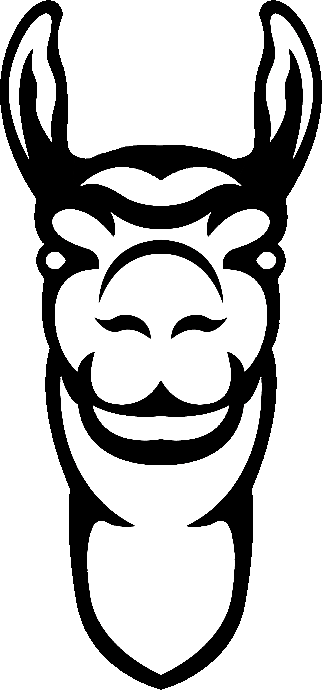
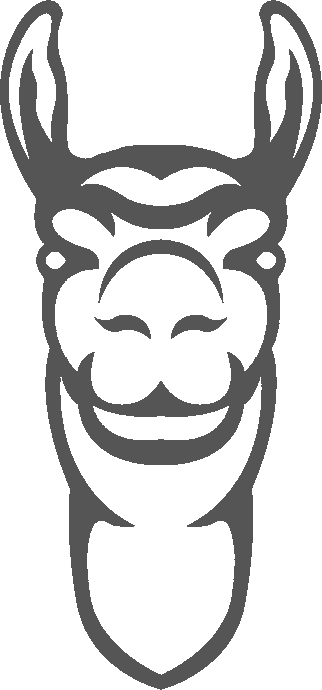
"Side Bar"

Changed region(s): [[0.0, 0.0, 1.0, 1.0], [0.528, 0.4565, 0.7143, 0.487], [0.3106, 0.4565, 0.4658, 0.487]]

diff --git a/src/components/SideBar/SideBar.jsx b/src/components/SideBar/SideBar.jsx
@@ -1,0 +1,98 @@
+import './SideBar.css';
+
+import AttachMoneyIcon from '@mui/icons-material/AttachMoney';
+import BarChartIcon from '@mui/icons-material/BarChart';
+import ChatBubbleOutlineIcon from '@mui/icons-material/ChatBubbleOutline';
+import DynamicFeedIcon from '@mui/icons-material/DynamicFeed';
+import LineStyleIcon from '@mui/icons-material/LineStyle';
+import MailOutlineIcon from '@mui/icons-material/MailOutline';
+import PersonOutlineIcon from '@mui/icons-material/PersonOutline';
+import ReportIcon from '@mui/icons-material/Report';
+import StorefrontIcon from '@mui/icons-material/Storefront';
+// import HomeIcon from '@mui/icons-material/Home';
+import TimelineIcon from '@mui/icons-material/Timeline';
+import TrendingUpIcon from '@mui/icons-material/TrendingUp';
+import WorkOutlineIcon from '@mui/icons-material/WorkOutline';
+
+const SideBar = () => {
+  return (
+    <div className='sideBar'>
+      <div className='sideBarWrapper'>
+        <div className='sideBarMenu'>
+          <h3 className='sideBarTitle'>Dashboard</h3>
+          <ul className='sideBarList'>
+            <li className='sideBarListItem active'>
+              <LineStyleIcon className='sideBarIcon' />
+              Home
+            </li>
+            <li className='sideBarListItem'>
+              <TimelineIcon className='sideBarIcon' />
+              Analytics
+            </li>
+            <li className='sideBarListItem'>
+              <TrendingUpIcon className='sideBarIcon' />
+              Sales
+            </li>
+          </ul>
+        </div>
+        <div className='sideBarMenu'>
+          <h3 className='sideBarTitle'>Quick Menu</h3>
+          <ul className='sideBarList'>
+            <li className='sideBarListItem '>
+              <PersonOutlineIcon className='sideBarIcon' />
+              Users
+            </li>
+            <li className='sideBarListItem'>
+              <StorefrontIcon className='sideBarIcon' />
+              Products
+            </li>
+            <li className='sideBarListItem'>
+              <AttachMoneyIcon className='sideBarIcon' />
+              Transactions
+            </li>
+            <li className='sideBarListItem'>
+              <BarChartIcon className='sideBarIcon' />
+              Reports
+            </li>
+          </ul>
+        </div>
+        <div className='sideBarMenu'>
+          <h3 className='sideBarTitle'>Notifications</h3>
+          <ul className='sideBarList'>
+            <li className='sideBarListItem '>
+              <MailOutlineIcon className='sideBarIcon' />
+              Mail
+            </li>
+            <li className='sideBarListItem'>
+              <DynamicFeedIcon className='sideBarIcon' />
+              Feedback
+            </li>
+            <li className='sideBarListItem'>
+              <ChatBubbleOutlineIcon className='sideBarIcon' />
+              Messages
+            </li>
+          </ul>
+        </div>
+        <div className='sideBarMenu'>
+          <h3 className='sideBarTitle'>Staff</h3>
+          <ul className='sideBarList'>
+            <li className='sideBarListItem '>
+              <WorkOutlineIcon className='sideBarIcon' />
+              Manage
+            </li>
+            <li className='sideBarListItem'>
+              <TimelineIcon className='sideBarIcon' />
+              Analytics
+            </li>
+            <li className='sideBarListItem'>
+              <ReportIcon className='sideBarIcon' />
+              Reports
+            </li>
+          </ul>
+        </div>
+      </div>
+    </div>
+  );
+};
+
+export default SideBar;

diff --git a/src/components/SideBar/SideBar.css b/src/components/SideBar/SideBar.css
@@ -1,0 +1,44 @@
+.sideBar {
+  flex: 1;
+  height: calc(100vh - 70px);
+  background-color: rgb(196, 196, 196);
+  position: sticky;
+  top: 70px;
+}
+
+.sideBarWrapper {
+  padding: 20px;
+  color: #555;
+}
+
+.sideBarMenu {
+  margin-bottom: 10px;
+}
+
+.sideBarTitle {
+  font-size: 13px;
+  color: rgb(248, 81, 81);
+}
+
+.sideBarList {
+  list-style: none;
+  padding: 5px;
+}
+
+.sideBarListItem {
+  padding: 5px;
+  cursor: pointer;
+  display: flex;
+  align-items: center;
+  border-radius: 10px;
+}
+
+.sideBarListItem.active,
+.sideBarListItem:hover {
+  background-color: rgb(182, 182, 182);
+}
+
+.sideBarIcon {
+  margin-right: 5px;
+  font-size: 20px !important;
+}

diff --git a/src/components/TopBar/TopBar.css b/src/components/TopBar/TopBar.css
@@ -1,9 +1,11 @@
 .topBar {
   width: 100%;
-  height: 100px;
-  background-color: white;
+  height: 70px;
+  background-color: black;
   position: sticky;
   top: 0;
+  z-index: 999;
+
 }
 
 .topBarWrapper {
@@ -12,17 +14,23 @@
   display: flex;
   align-items: center;
   justify-content: space-between;
+
 }
 
+
+
 .logo {
-  width: 35px;
+  width: 25px;
   height: auto;
   cursor: pointer;
 }
 
+
+
 .topRight {
   display: flex;
   align-items: center;
+
 }
 
 .topBarIconWrapper {
@@ -38,7 +46,7 @@
   width: 15px;
   top: -5px;
   right: 0;
-  background-color: red;
+  background-color: rgb(248, 81, 81);
   border-radius: 50%;
   display: flex;
   align-items: center;

diff --git a/src/components/TopBar/TopBar.jsx b/src/components/TopBar/TopBar.jsx
@@ -1,7 +1,7 @@
 import './TopBar.css';
 
 import LanguageIcon from '@mui/icons-material/Language';
-import Logo from '../../assets/images/lama.png';
+import Logo from '../../assets/images/lama-red.png';
 import NotificationsNoneIcon from '@mui/icons-material/NotificationsNone';
 import SettingsIcon from '@mui/icons-material/Settings';
 import User from '../../assets/images/default-user-icon.png';
@@ -15,6 +15,7 @@ const TopBar = () => {
             <img className='logo' src={Logo} alt='Logo' />
           </span>
         </div>
+
         <div className='topRight'>
           <div className='topBarIconWrapper'>
             <NotificationsNoneIcon />

diff --git a/src/App.js b/src/App.js
@@ -1,9 +1,16 @@
+import './App.css';
+
+import SideBar from './components/SideBar/SideBar';
 import TopBar from './components/TopBar/TopBar';
 
 function App() {
   return (
     <div>
       <TopBar />
+      <div className='container'>
+        <SideBar />
+        <div className='others'>Other Pages</div>
+      </div>
     </div>
   );
 }

diff --git a/src/App.css b/src/App.css
@@ -1,0 +1,7 @@
+.container {
+  display: flex;
+}
+
+.others {
+  flex: 4;
+}
